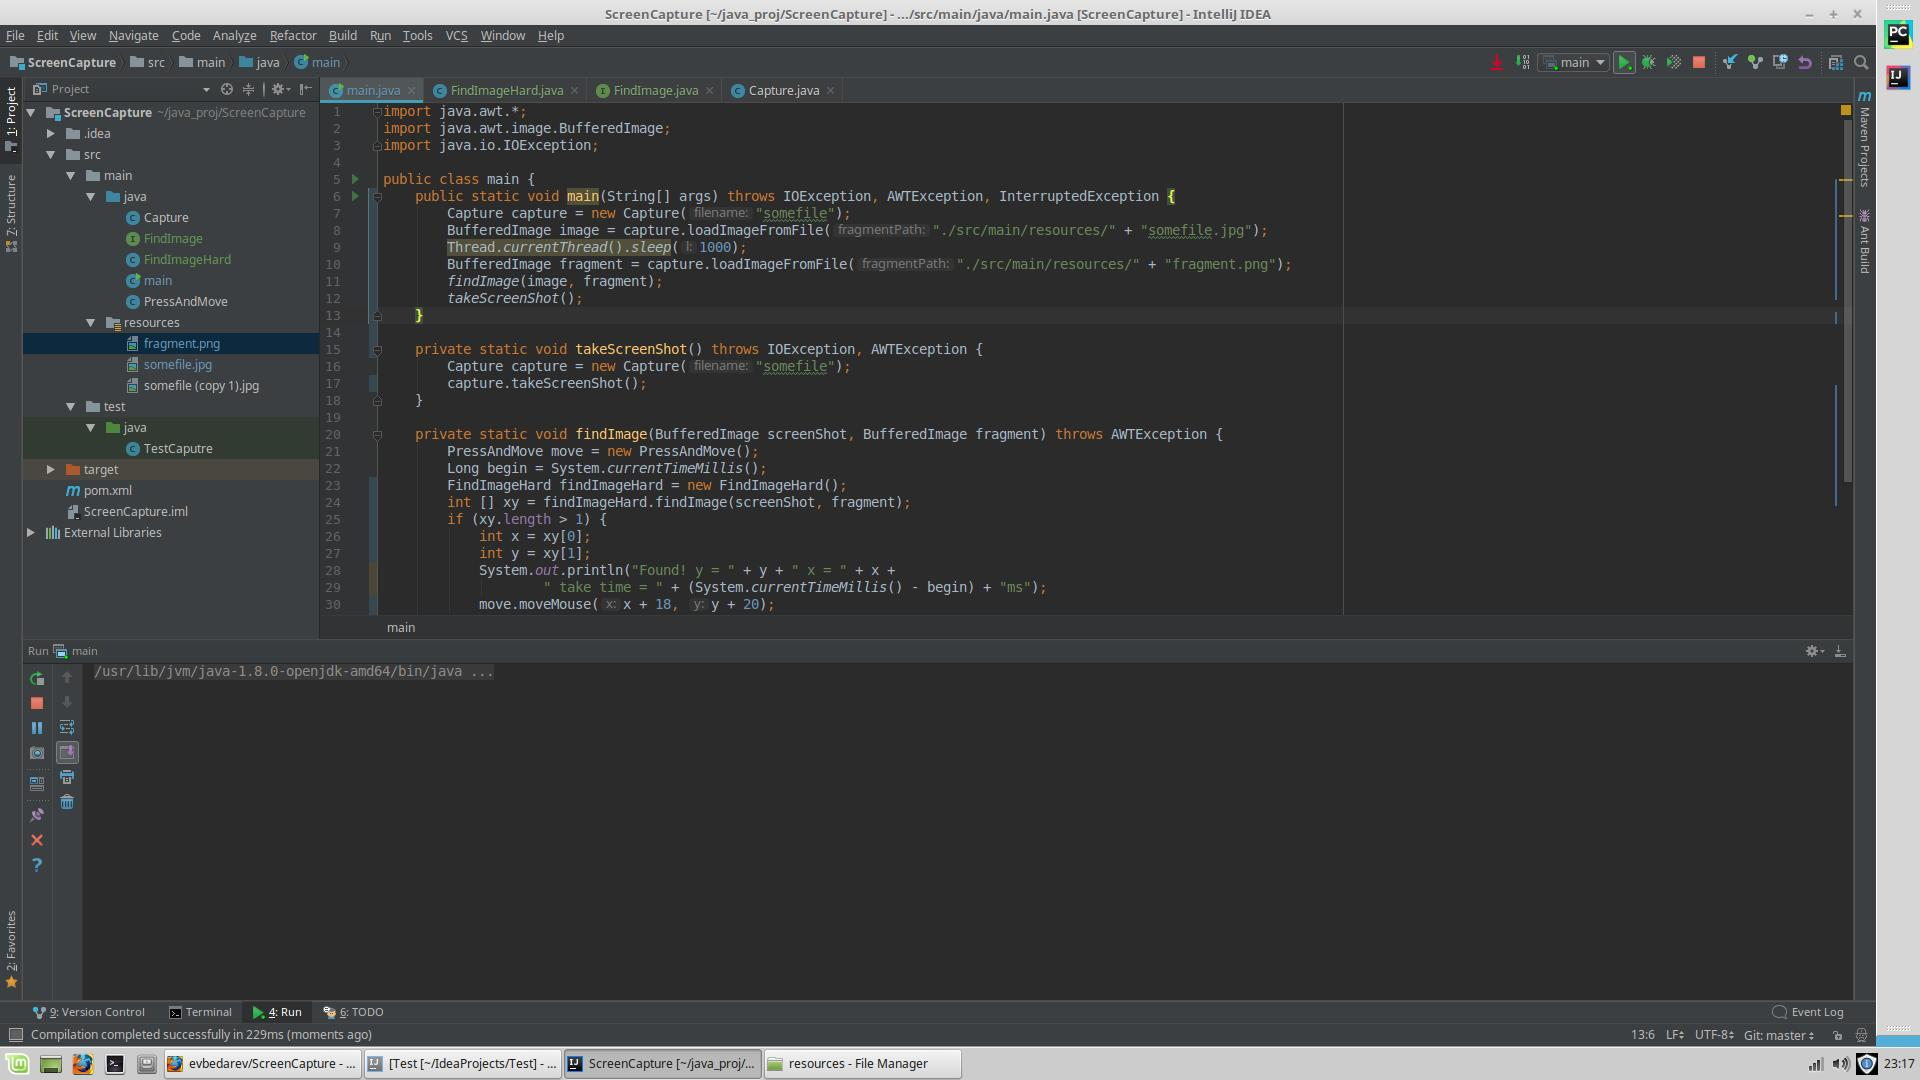
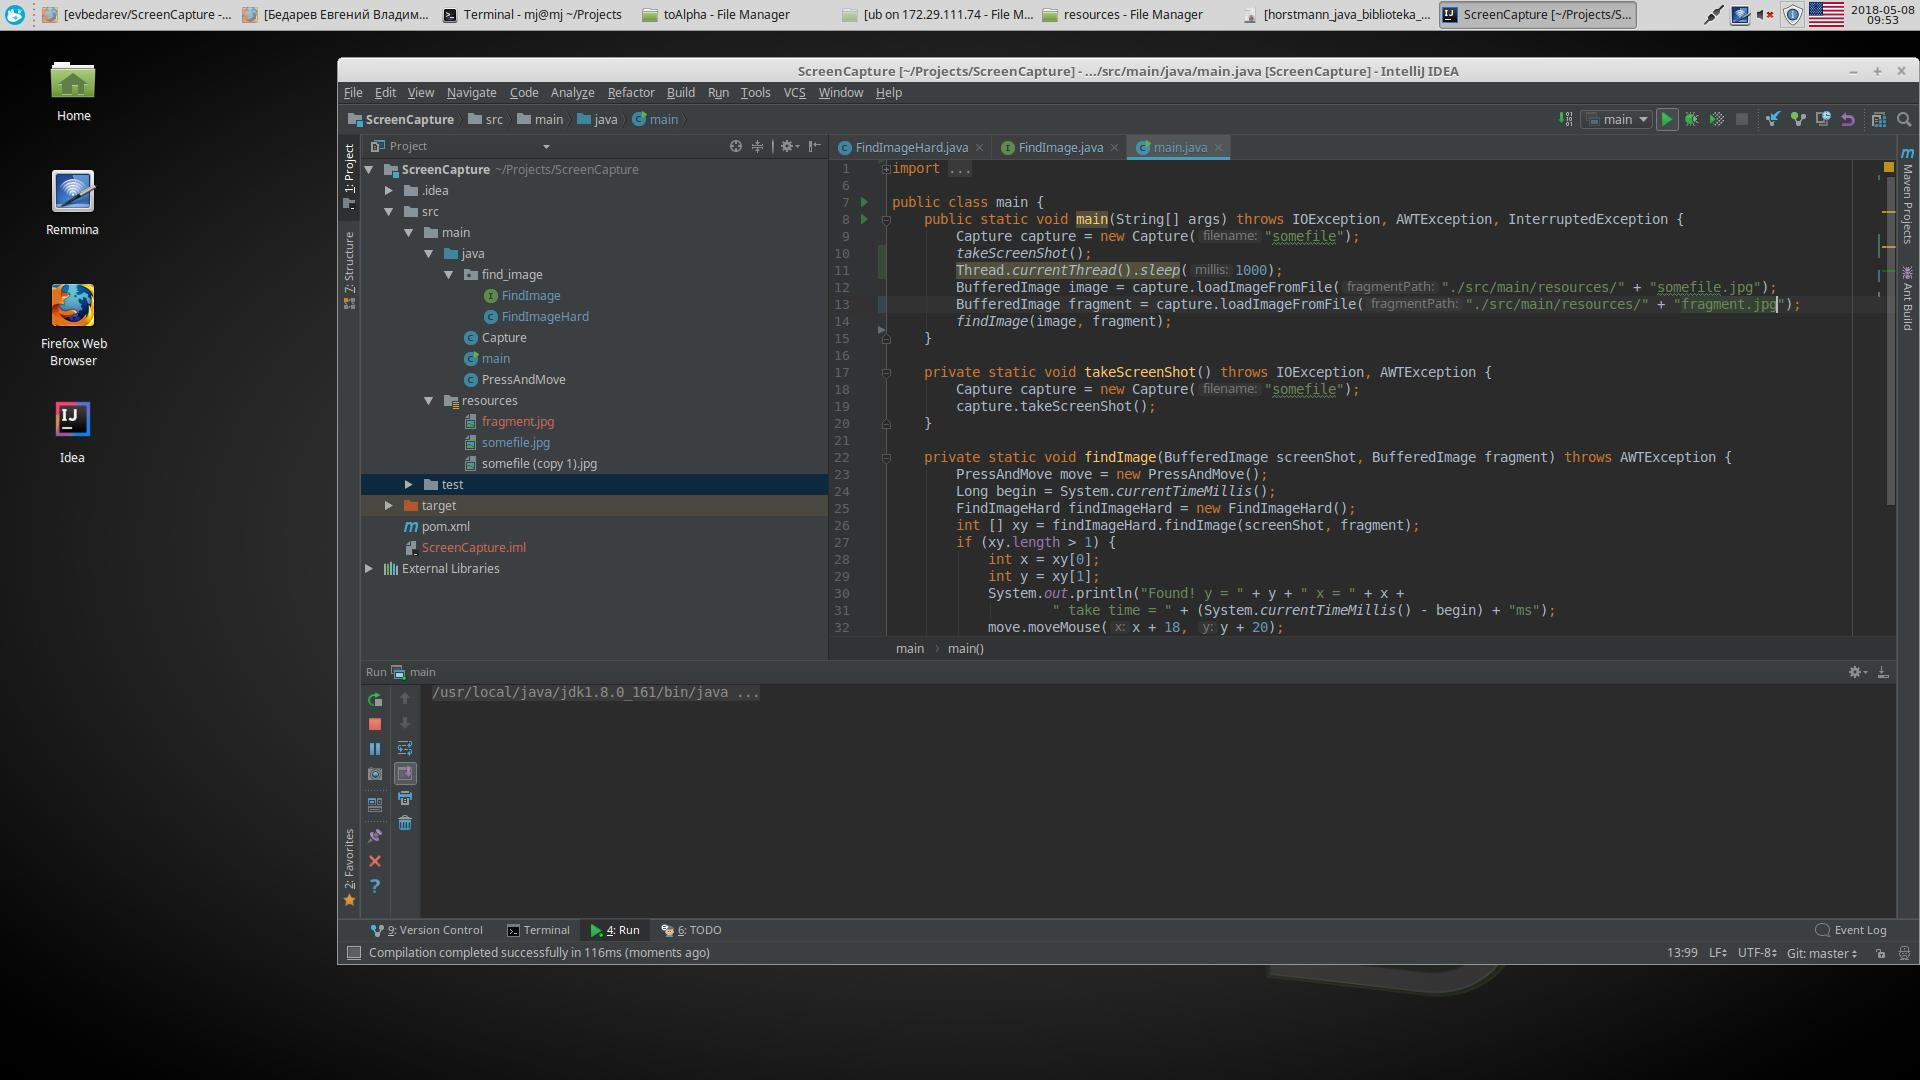
+ FindFragments class

diff --git a/src/main/java/main.java b/src/main/java/main.java
@@ -1,20 +1,30 @@
+import find_fragments.FindFragmentFiles;
+import find_image.FindImageHard;
+import storage_image.StorageImage;
+import storage_image.StorageImageFile;
+
 import java.awt.*;
 import java.awt.image.BufferedImage;
 import java.io.IOException;
 
 public class main {
     public static void main(String[] args) throws IOException, AWTException, InterruptedException {
-        Capture capture = new Capture("somefile");
-        BufferedImage image = capture.loadImageFromFile("./src/main/resources/" + "somefile.jpg");
-        Thread.currentThread().sleep(1000);
-        BufferedImage fragment = capture.loadImageFromFile("./src/main/resources/" + "fragment.png");
-        findImage(image, fragment);
+        StorageImage storageImage = new StorageImageFile();
+        FindFragmentFiles fragmentFiles = new FindFragmentFiles("fragm*", "./src/main/resources/");
         takeScreenShot();
+        Thread.currentThread().sleep(1000);
+        BufferedImage image = storageImage.load("./src/main/resources/" + "somefile.png");
+        for (BufferedImage fragment: fragmentFiles.fragments()) {
+            findImage(image, fragment);
+        }
+
+//        BufferedImage fragment = storageImage.load("./src/main/resources/" + "fragment.png");
+//        findImage(image, fragment);
     }
 
-    private static void takeScreenShot() throws IOException, AWTException {
-        Capture capture = new Capture("somefile");
-        capture.takeScreenShot();
+    private static void takeScreenShot() throws AWTException {
+        Capture capture = new Capture();
+        capture.takeScreenShot("somefile");
     }
 
     private static void findImage(BufferedImage screenShot, BufferedImage fragment) throws AWTException {

diff --git a/src/main/java/find_fragments/FindFragmentFiles.java b/src/main/java/find_fragments/FindFragmentFiles.java
@@ -1,0 +1,51 @@
+package find_fragments;
+
+import javax.imageio.ImageIO;
+import java.awt.image.BufferedImage;
+import java.io.File;
+import java.io.IOException;
+import java.nio.file.DirectoryStream;
+import java.nio.file.Files;
+import java.nio.file.Path;
+import java.nio.file.Paths;
+import java.util.ArrayList;
+import java.util.List;
+
+public class FindFragmentFiles {
+    private final String wildCard;
+    private final String rootDir;
+
+    public FindFragmentFiles(String wildCard, String rootDir) {
+        this.wildCard = wildCard;
+        this.rootDir = rootDir;
+    }
+
+    /**
+     * convert files to images.
+     * @return List<BufferedImage> - list of images
+     * @throws IOException
+     */
+    public List<BufferedImage> fragments() throws IOException {
+        List<BufferedImage> images = new ArrayList<>();
+        List<File> filesList = findFiles();
+        for (File file: filesList) {
+            images.add(ImageIO.read(file));
+        }
+        return images;
+    }
+
+    /**
+     * Find files by wildcard and return List of Files
+     * @return List<Files> - list of files
+     * @throws IOException
+     */
+    public List<File> findFiles() throws IOException {
+        List<File> fragFiles = new ArrayList<>();
+        try (DirectoryStream<Path> dirStream = Files.newDirectoryStream(
+                Paths.get(rootDir), wildCard))
+        {
+            dirStream.forEach(path -> fragFiles.add(path.toFile()));
+        }
+        return fragFiles;
+    }
+}

diff --git a/src/main/java/Capture.java b/src/main/java/Capture.java
@@ -1,37 +1,20 @@
+import storage_image.StorageImage;
+import storage_image.StorageImageFile;
+
 import java.awt.*;
 import java.awt.image.BufferedImage;
-import java.io.File;
-import java.io.IOException;
-import javax.imageio.ImageIO;
 
 public class Capture {
     private static final int SCREEN_WIDTH = 1920;
     private static final int SCREEN_HEIGHT = 1080;
     private static final String ROOT_DIR = "./src/main/resources/";
-    private final String fileName;
+    private StorageImage storageImage = new StorageImageFile();
 
 
-    public Capture(String filename) {
-        this.fileName = filename + ".jpg";
-    }
-
-    public void takeScreenShot() throws AWTException,IOException {
+    public void takeScreenShot(String fileName) throws AWTException {
         Robot robot = new Robot();
         Rectangle rectangle = new Rectangle(SCREEN_WIDTH, SCREEN_HEIGHT);
         BufferedImage image = robot.createScreenCapture(rectangle);
-        saveImageToFile(image, ROOT_DIR + fileName);
+        storageImage.save(image, ROOT_DIR + fileName + ".png");
     }
-
-    public void saveImageToFile(BufferedImage image, String fullFilePath) throws IOException {
-        File outputfile = new File(fullFilePath);
-        ImageIO.write(image,"jpg",outputfile);
-    }
-
-    public BufferedImage loadImageFromFile (String fragmentPath) throws IOException {
-       BufferedImage fragment;
-       File file = new File(fragmentPath);
-       fragment = ImageIO.read(file);
-       return fragment;
-    }
-
 }

diff --git a/src/test/java/TestFindFragment.java b/src/test/java/TestFindFragment.java
@@ -1,0 +1,42 @@
+import find_fragments.FindFragmentFiles;
+import org.junit.After;
+import org.junit.Before;
+import org.junit.Test;
+
+import java.io.*;
+import java.util.List;
+import static org.junit.Assert.assertTrue;
+
+public class TestFindFragment {
+    private static final String ROOT_DIR = "/home/mj/Projects/ScreenCapture/src/main/resources/forTests/";
+    private static final String WILDCARD = "frag*";
+    private static final String NEW_FRAGMENT_FILE = "fragment123.png";
+
+    @Before
+    public void createFiles() {
+        createTestFile(ROOT_DIR + NEW_FRAGMENT_FILE);
+    }
+
+    @After
+    public void deleteFiles() {
+        File file = new File(ROOT_DIR + NEW_FRAGMENT_FILE);
+        file.delete();
+    }
+
+    @Test
+    public void testFndFiles() throws IOException {
+        FindFragmentFiles fndFragments = new FindFragmentFiles(WILDCARD, ROOT_DIR);
+        List<File> files = fndFragments.findFiles();
+        assertTrue(files.size() == 2);
+        File newFile = new File(NEW_FRAGMENT_FILE);
+    }
+
+    private void createTestFile(String filePath) {
+        try (Writer writer = new BufferedWriter(new OutputStreamWriter(
+                new FileOutputStream(filePath), "utf-8"))) {
+            writer.write("test");
+        } catch (IOException exception) {
+            exception.printStackTrace();
+        }
+    }
+}

diff --git a/src/main/java/storage_image/StorageImageFile.java b/src/main/java/storage_image/StorageImageFile.java
@@ -1,0 +1,28 @@
+package storage_image;
+
+import javax.imageio.ImageIO;
+import java.awt.image.BufferedImage;
+import java.io.File;
+import java.io.IOException;
+
+public class StorageImageFile implements StorageImage {
+    @Override
+    public boolean save(BufferedImage image, String fullFilePath) {
+        try {
+            File outputfile = new File(fullFilePath);
+            ImageIO.write(image,"png",outputfile);
+            return true;
+        } catch (IOException exception) {
+            exception.printStackTrace();
+            return false;
+        }
+    }
+
+    @Override
+    public BufferedImage load(String fragmentPath) throws IOException{
+        BufferedImage fragment;
+        File file = new File(fragmentPath);
+        fragment = ImageIO.read(file);
+        return fragment;
+    }
+}

diff --git a/src/main/java/find_image/FindImageHard.java b/src/main/java/find_image/FindImageHard.java
@@ -1,7 +1,19 @@
+package find_image;
+
 import java.awt.image.BufferedImage;
+
+/**
+ * Ищет искомый фрагмент в скриншоте.
+ */
 
 public class FindImageHard implements FindImage {
 
+    /**
+     * Find fragment of image in screenshot slowly.
+     * @param screenShot - screenshot (png)
+     * @param fragment - required fragment (png)
+     * @return - int[] {x,y} or int[0]
+     */
     @Override
     public int[] findImage(BufferedImage screenShot, BufferedImage fragment) {
         for (int y = 0; y < screenShot.getHeight() - fragment.getHeight(); y++) {

diff --git a/src/main/java/storage_image/StorageImage.java b/src/main/java/storage_image/StorageImage.java
@@ -1,0 +1,9 @@
+package storage_image;
+
+import java.awt.image.BufferedImage;
+import java.io.IOException;
+
+public interface StorageImage {
+    boolean save(BufferedImage image, String fullFilePath);
+    BufferedImage load(String fragmentPath) throws IOException;
+}

diff --git a/src/main/java/find_image/FindImage.java b/src/main/java/find_image/FindImage.java
@@ -1,3 +1,5 @@
+package find_image;
+
 import java.awt.image.BufferedImage;
 
 public interface FindImage {
